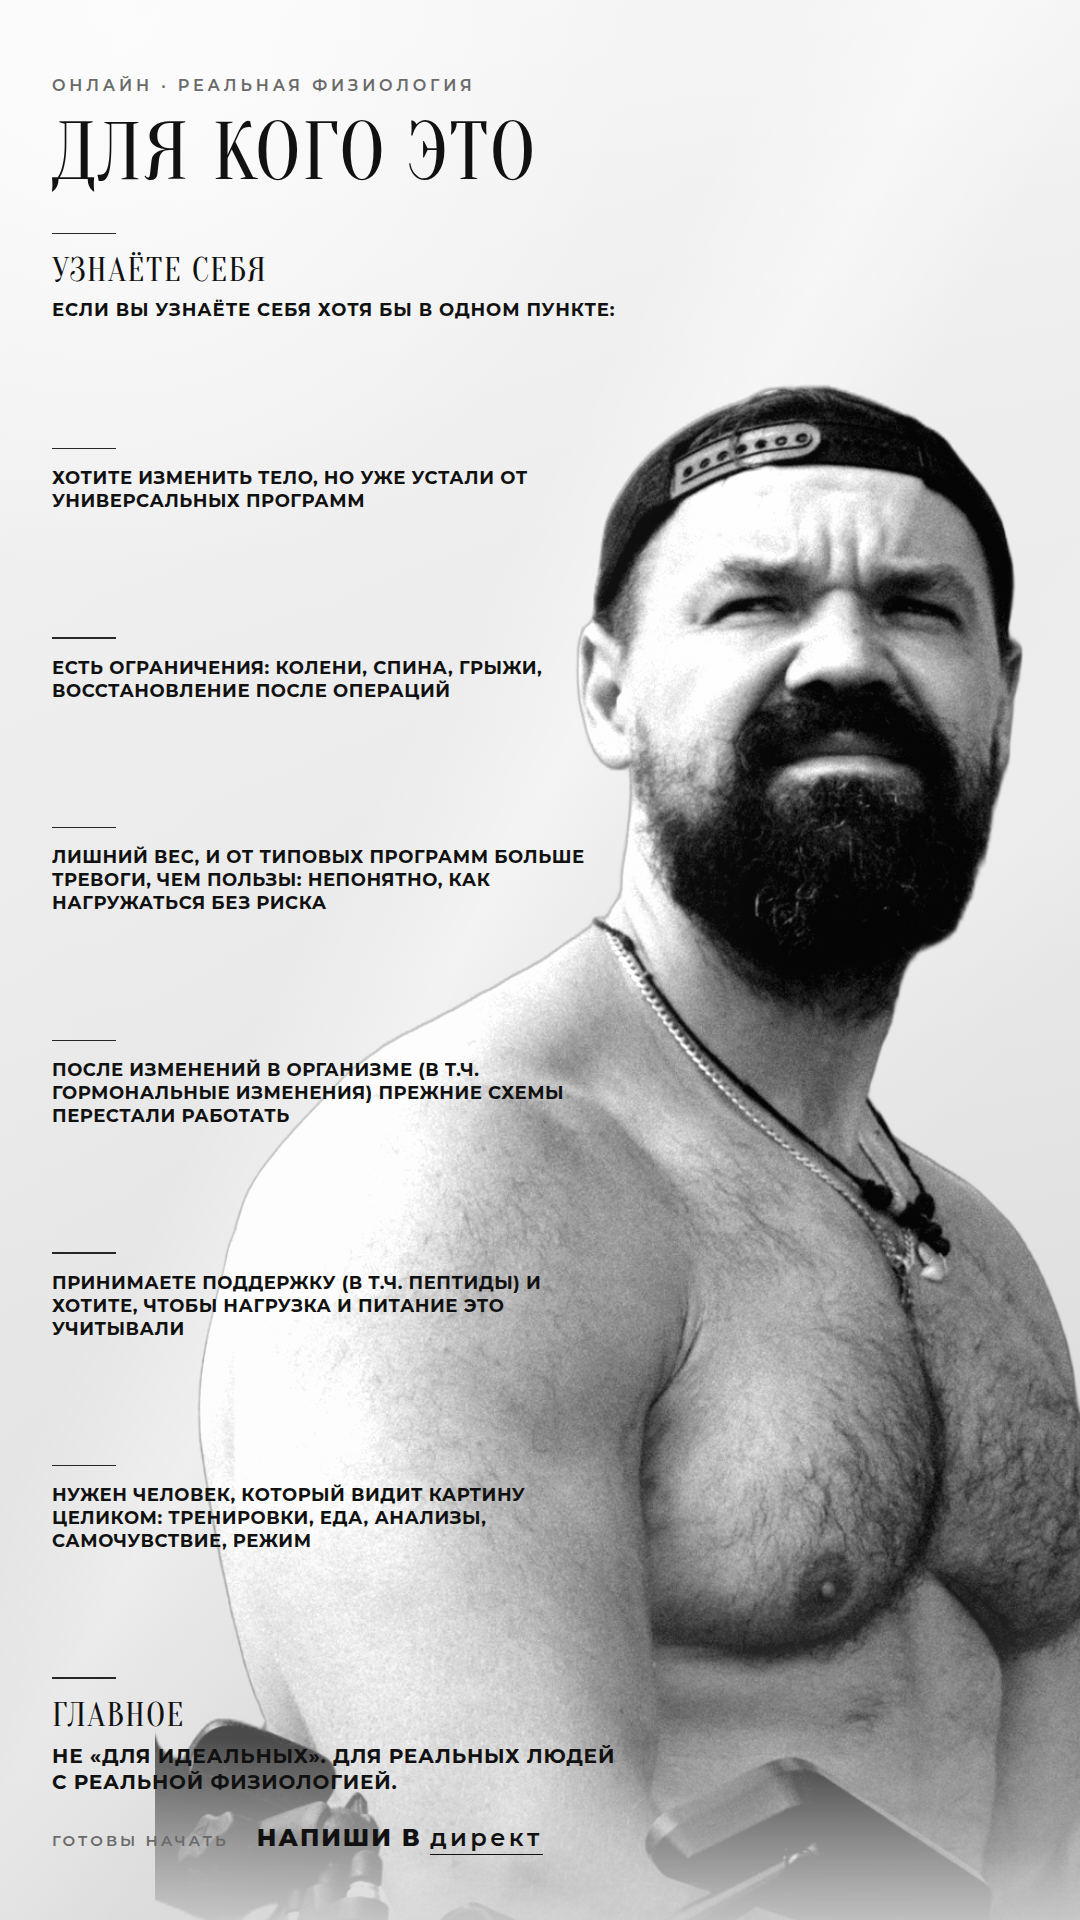
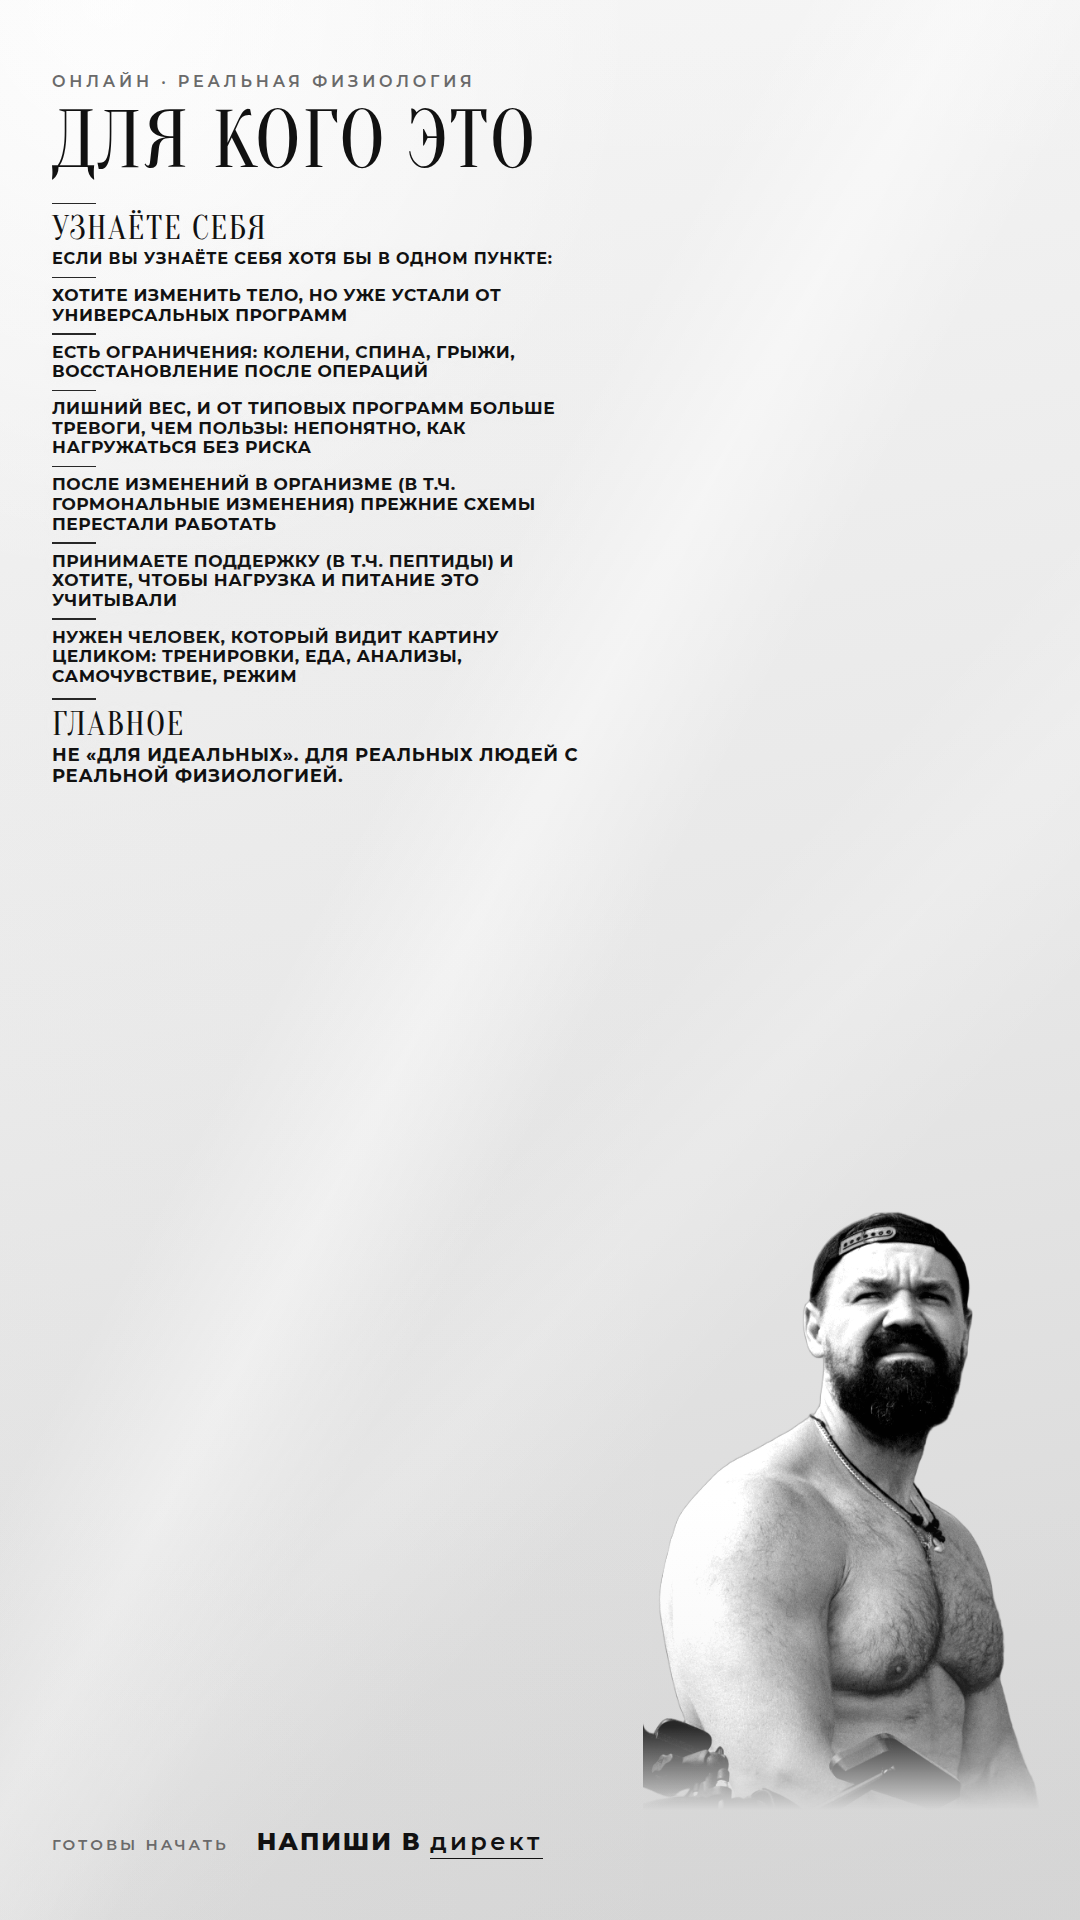
Tighten text spacing and scale Artur like woman reference
Reduce stack gaps and point leading; shrink Artur cutout to ~600px
in the lower-right quadrant to match the girl reference scale.

diff --git a/stories/dlya-kogo.html b/stories/dlya-kogo.html
@@ -9,9 +9,9 @@
     /*
       Стилистика написания = социальный референс с девушкой:
       светлый студийный B&W, текст поверх фото, вертикальный стек CAPS,
-      короткие тонкие разделители.
+      короткие тонкие разделители, плотные интервалы.
       От тарифа «План» — только шрифты и размеры.
-      Без рамок / карточек / табличных плашек.
+      Артур по масштабу как девушка на референсе (нижний правый квадрант).
     */
     :root {
       --ink: #111111;
@@ -46,17 +46,17 @@
         linear-gradient(170deg, var(--bg-hi) 0%, var(--bg) 50%, var(--bg-lo) 100%);
     }
 
+    /* масштаб как у девушки: компактно в нижнем правом квадранте */
     .photo {
       position: absolute;
-      right: -120px;
-      bottom: -40px;
-      height: 1580px;
+      right: 40px;
+      bottom: 110px;
+      height: 600px;
       width: auto;
       z-index: 1;
       pointer-events: none;
       user-select: none;
       filter: contrast(1.06) brightness(1.14);
-      opacity: 0.98;
     }
 
     .veil {
@@ -67,16 +67,16 @@
       background:
         linear-gradient(
           95deg,
-          rgba(245,245,245,0.22) 0%,
-          rgba(245,245,245,0.08) 40%,
-          transparent 70%
+          rgba(245,245,245,0.16) 0%,
+          rgba(245,245,245,0.05) 42%,
+          transparent 72%
         ),
         linear-gradient(
           180deg,
-          rgba(250,250,250,0.2) 0%,
+          rgba(250,250,250,0.16) 0%,
           transparent 10%,
           transparent 78%,
-          rgba(210,210,210,0.42) 100%
+          rgba(210,210,210,0.32) 100%
         );
     }
 
@@ -84,7 +84,7 @@
       position: relative;
       z-index: 3;
       height: 100%;
-      padding: 76px 52px 68px;
+      padding: 72px 52px 64px;
       display: flex;
       flex-direction: column;
     }
@@ -94,7 +94,7 @@
       font-weight: 600;
       letter-spacing: 0.24em;
       color: var(--soft);
-      margin-bottom: 20px;
+      margin-bottom: 12px;
     }
 
     .title {
@@ -104,50 +104,53 @@
       line-height: 0.95;
       letter-spacing: 0.02em;
       color: var(--ink);
-      margin-bottom: 40px;
+      margin-bottom: 14px;
       max-width: 720px;
     }
 
     .stack {
       display: flex;
       flex-direction: column;
-      width: 680px;
-      flex: 1;
-      justify-content: space-between;
+      width: 620px;
+      gap: 0;
     }
 
     .row {
       display: flex;
       flex-direction: column;
-      gap: 8px;
+      gap: 2px;
+      padding: 5px 0 0;
     }
 
-    /* короткие линии как у референса с девушкой — не на всю ширину */
     .row .rule {
-      width: 56px;
+      width: 40px;
       height: 1.5px;
       background: var(--ink);
-      margin-bottom: 10px;
+      margin-bottom: 5px;
       opacity: 0.9;
     }
 
     .row .primary {
-      font-size: 24px;
+      font-size: 22px;
       font-weight: 800;
       letter-spacing: 0.06em;
-      line-height: 1.12;
+      line-height: 1.06;
       color: var(--ink);
-      text-shadow: 0 0 18px rgba(245,245,245,0.85), 0 1px 0 rgba(245,245,245,0.5);
+      text-shadow: 0 0 14px rgba(245,245,245,0.8);
     }
 
     .row .secondary {
-      font-size: 15px;
+      font-size: 14px;
       font-weight: 500;
       letter-spacing: 0.1em;
-      line-height: 1.4;
+      line-height: 1.28;
       color: var(--muted);
-      max-width: 620px;
-      text-shadow: 0 0 14px rgba(245,245,245,0.8);
+      max-width: 580px;
+      text-shadow: 0 0 12px rgba(245,245,245,0.7);
+    }
+
+    .row.section {
+      padding-top: 2px;
     }
 
     .row.section .primary {
@@ -155,25 +158,35 @@
       font-size: 34px;
       font-weight: 400;
       letter-spacing: 0.04em;
+      line-height: 1.02;
     }
 
     .row.section .secondary {
-      font-size: 18px;
+      font-size: 16px;
       font-weight: 700;
       letter-spacing: 0.05em;
       color: var(--ink);
+      line-height: 1.22;
+    }
+
+    .row.point {
+      padding-top: 5px;
     }
 
     .row.point .primary {
-      font-size: 18px;
+      font-size: 16px;
       font-weight: 700;
       letter-spacing: 0.03em;
-      line-height: 1.28;
-      max-width: 580px;
+      line-height: 1.12;
+      max-width: 540px;
     }
 
     .row.point .secondary {
       display: none;
+    }
+
+    .row.finale {
+      padding-top: 10px;
     }
 
     .row.finale .primary {
@@ -181,18 +194,20 @@
       font-size: 34px;
       font-weight: 400;
       letter-spacing: 0.04em;
+      line-height: 1.02;
     }
 
     .row.finale .secondary {
-      font-size: 20px;
+      font-size: 18px;
       font-weight: 700;
       letter-spacing: 0.04em;
       color: var(--ink);
-      line-height: 1.3;
+      line-height: 1.22;
     }
 
     .cta-wrap {
-      margin-top: 28px;
+      margin-top: 36px;
+      padding-top: 0;
       display: flex;
       align-items: baseline;
       gap: 28px;
